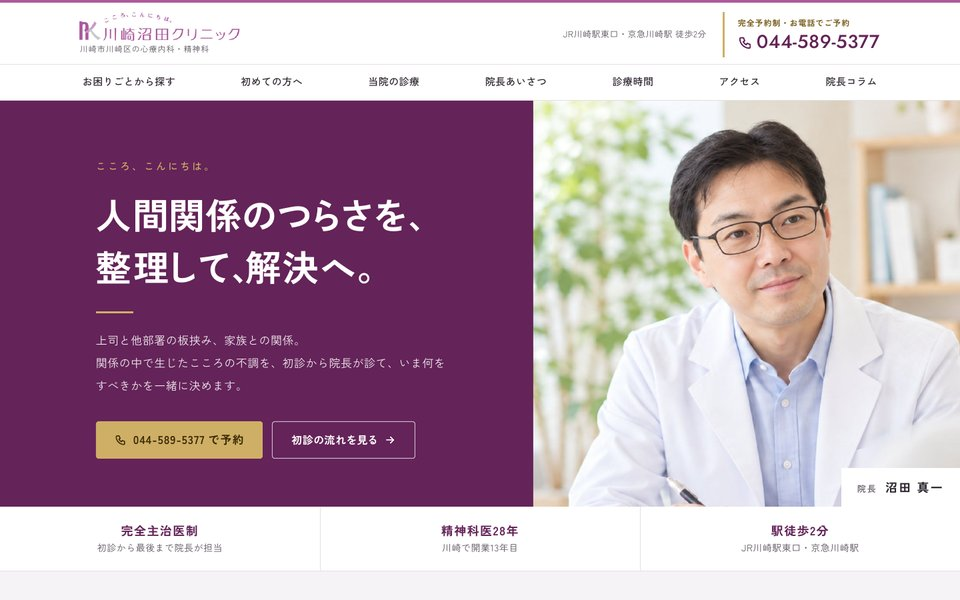
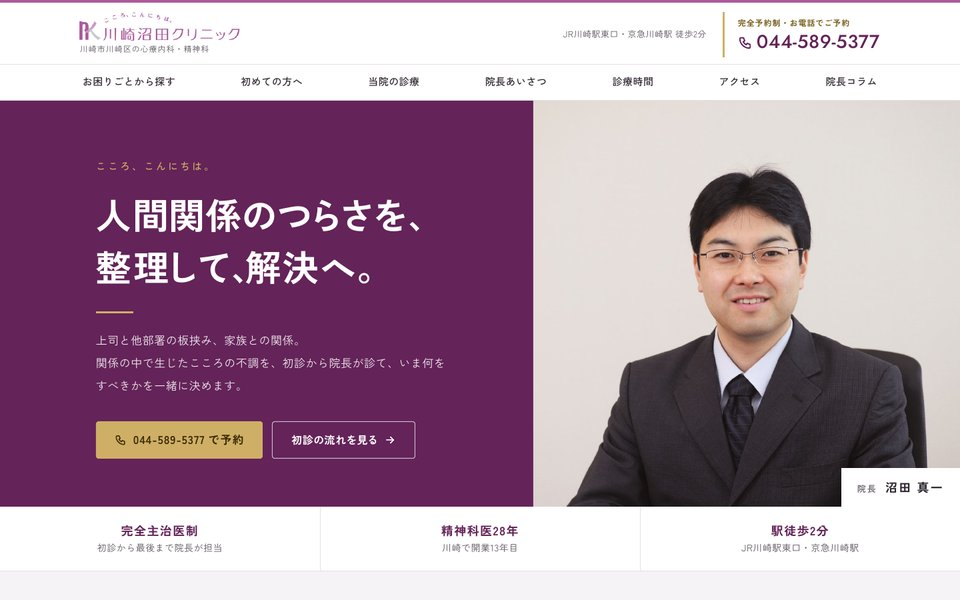
006・007：院長の写真を支給写真に差し替え
Claude-Session: https://claude.ai/code/session_01PqN1TRnnMqSdtr1dScAdhW

Changed region(s): [[0.5312, 0.15, 1.0, 0.87]]

diff --git a/006/assets/css/style.css b/006/assets/css/style.css
@@ -266,7 +266,7 @@ p, li, dd, h1, h2, h3, .trouble__title, .column span { word-break: keep-all; ove
   .header__type { font-size: 11px; letter-spacing: .02em; }
   .fv { grid-template-columns: minmax(0, 1fr); }
   .fv__photo { order: -1; min-height: 0; aspect-ratio: 4 / 3.3; }
-  .fv__photo img { object-position: 50% 18%; }
+  .fv__photo img { object-position: 50% 42%; }
   .fv__name { font-size: 15px; padding: 8px 16px; }
   .fv__body { padding: 36px 20px 40px; }
   .fv__brand { font-size: 13px; }

diff --git a/007/index.html b/007/index.html
@@ -88,7 +88,7 @@
           </div>
         </div>
         <div class="fv__person">
-          <img class="fv__director" src="assets/img/director-cut.webp" alt="院長 沼田真一" width="900" height="616">
+          <img class="fv__director" src="assets/img/director-cut.webp" alt="院長 沼田真一" width="1338" height="1065">
           <p class="fv__name"><span>院長</span>沼田 真一</p>
         </div>
       </div>
